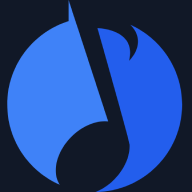
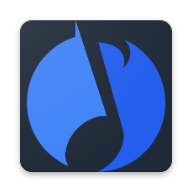
add new pwa sizes and update config

diff --git a/vite.config.ts b/vite.config.ts
@@ -91,9 +91,24 @@ export default defineConfig({
       manifest: {
         name: 'Vivaldi',
         short_name: 'Vivaldi',
-        theme_color: '#ffffff',
+        theme_color: '#1F2937',
         orientation: 'landscape',
         icons: [
+          {
+            src: '/pwa-48x48.png',
+            sizes: '48x48',
+            type: 'image/png',
+          },
+          {
+            src: '/pwa-72x72.png',
+            sizes: '72x72',
+            type: 'image/png',
+          },
+          {
+            src: '/pwa-96x96.png',
+            sizes: '96x96',
+            type: 'image/png',
+          },
           {
             src: '/pwa-192x192.png',
             sizes: '192x192',
